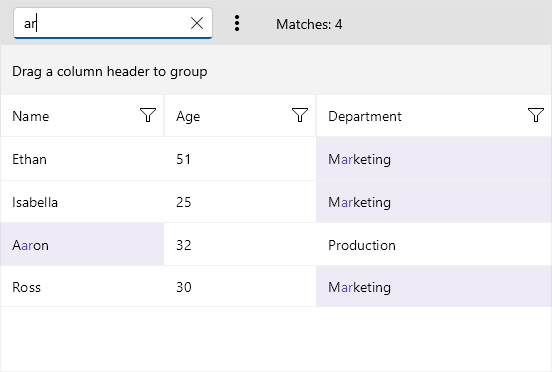
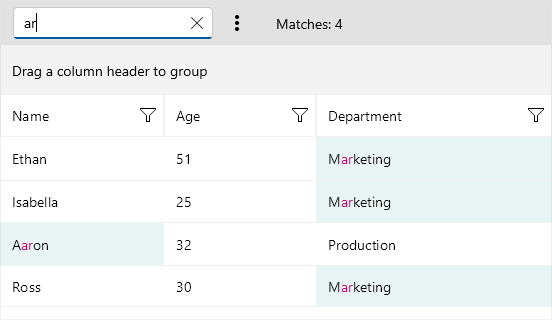
DataGrid Search updates

diff --git a/controls/datagrid/theming-and-styles/columns-styling.md b/controls/datagrid/theming-and-styles/columns-styling.md
@@ -72,6 +72,7 @@ The `CellContentStyle` property defines the appearance of each cell associated w
 * `TextColor`/`SelectedTextColor`&mdash;Define the color of the cells text. You can set a different value for the selected cell.
 * `HoverTextColor`&mdash;Sets the color of the cells text when the mouse hovers over it. Appicable only on Desktop.
 * `TextMargin`/ `HorizontalTextAlignment`/ `VerticalTextAlignment`)&mdash;Define the positioning of the text inside the cell.
+* `SearchMatchTextColor`&mdash;Defines the color that is used for the parts of the text that are search matches.
 
 Here is an example how to set the `CellContentStyle` property:
 
@@ -80,6 +81,8 @@ Here is an example how to set the `CellContentStyle` property:
 ## CellDecorationStyle
 
 To style the border of each cell associated with the column the `CellDecorationStyle` property is used. `CellDecorationStyle` is of type `DataGridBorderStyle` which provides the following properties&mdash;`BackgroundColor`, `BorderColor`, `BorderTickness`.
+
+In addition, `DataGridBorderStyle` provides `SearchMatchBackgroundColor` used to apply separate background color to the border when the cell contains a search-match. 
 
 Here is an example how to set those properties on a column:
 
@@ -129,3 +132,4 @@ And this is how the column style looks when the properties for customizing the c
 
 - [DataGrid Styling]({%slug datagrid-styling%})
 - [Style Selectors]({%slug datagrid-style-selectors%})
+- [Search as You Type]({%slug datagrid-search-as-you-type%})

diff --git a/controls/datagrid/search-as-you-type.md b/controls/datagrid/search-as-you-type.md
@@ -94,7 +94,7 @@ To further customize the Search as You Type functionality, use the `SearchStarti
      * `SearchTermsLogicalOperator`(`LogicalOperator`)&mdash;The logical operator that is used when more than one search term is searched for.
      * `Cancel`(`bool`)&mdash;Indicates whether to cancel the search.
 
-Here is an example on how you can utilize `SearchStarting` to modify the search logic - divide the search text in separate search terms and search for all of them using "Or" operator:
+Here is an example on how you can utilize `SearchStarting` to modify the way the search is performed - for example, divide the search text in separate search terms and search for all of them using "Or" operator:
 
 **1.** Add the DataGrid definition to the page with the `SearchSettings` applied:
 
@@ -117,3 +117,4 @@ The `DataGrid.SearchSettings` allows you to attach commands that will be execute
 
 - [Localization]({%slug datagrid-localization%})
 - [Defining Columns]({%slug datagrid-columns-overview%})
+- [Columns Styling]({%slug datagrid-columns-styling%})
